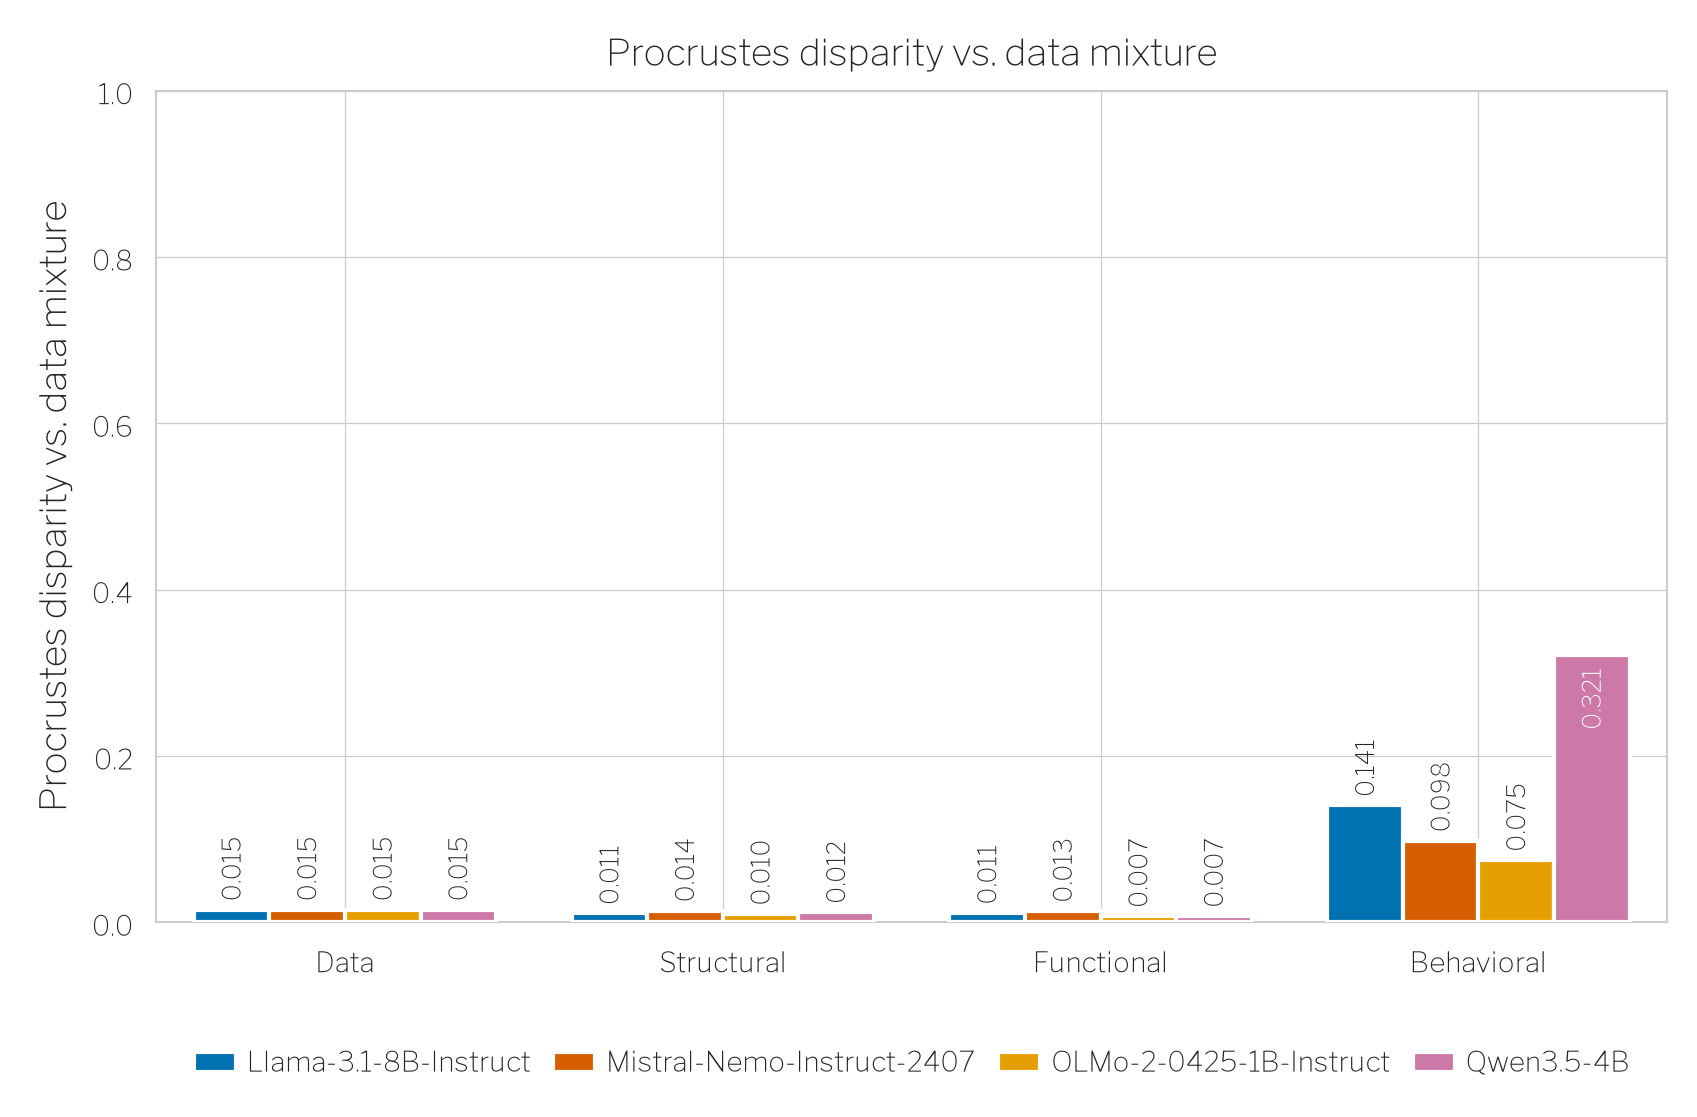
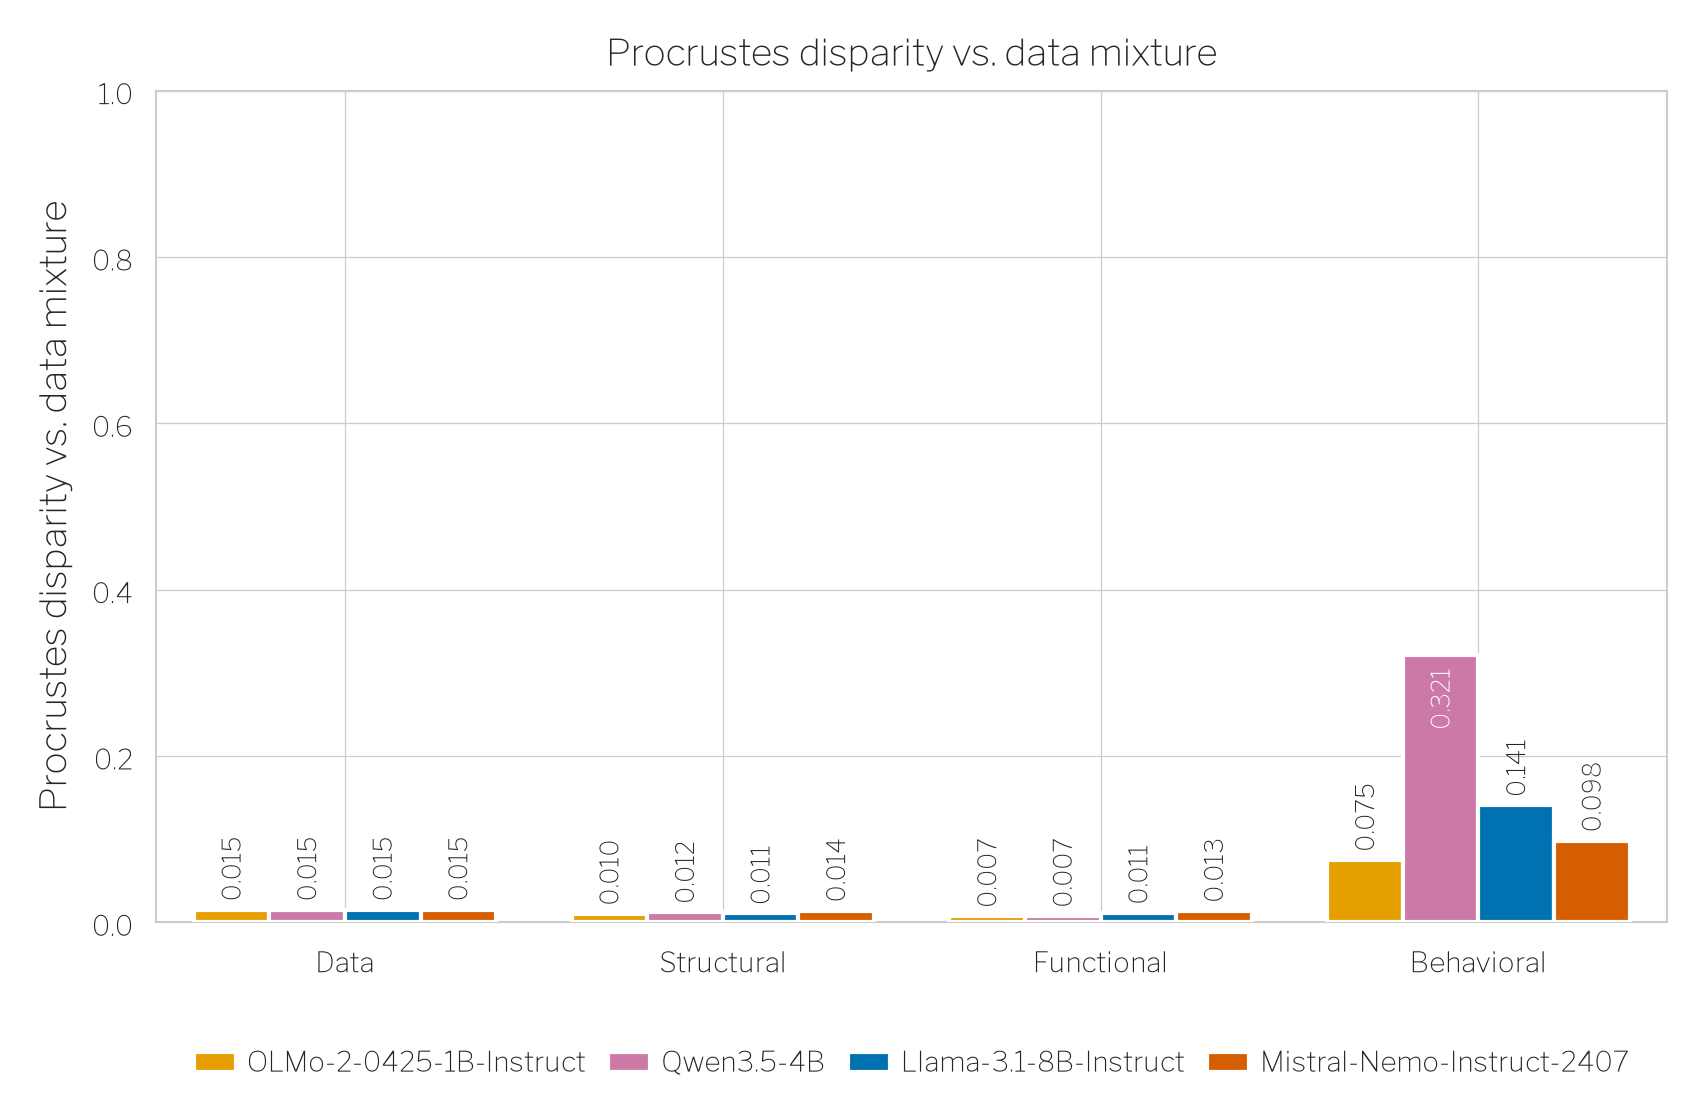
style(figures): order the simplex3 aggregate models by parameter count
Bars within a group, and the legend on every figure, now run 1B -> 4B -> 8B ->
12B (OLMo-2, Qwen3.5, Llama-3.1, Mistral-Nemo). Size is the one non-arbitrary
axis these four share, so a trend across a group can be read left to right.

Marker and dash move into the MODELS entries alongside the colour, so an
encoding travels with its model and reordering the list does not reassign them;
ENCODINGS is gone. No score changes -- the same cells, drawn in a new order.

Claude-Session: https://claude.ai/code/session_01S6CzwYUHpXsKaw2JNcaddi

diff --git a/figures/simplex3_aggregate/make_figures.py b/figures/simplex3_aggregate/make_figures.py
@@ -66,30 +66,33 @@ import matplotlib.pyplot as plt  # noqa: E402
 from src.plots import make_series, plot_grouped_bars, plot_radar, set_style  # noqa: E402
 from src.plots.simplex_suite import read_scores_csv, select_score  # noqa: E402
 
-#: Source run per base model, in legend order: (base model, figure dir, colour).
+#: Source run per base model: (base model, figure dir, colour, marker, dash).
 #: The base model is the ``BASE_MODEL`` of that directory's own make_figures.py,
 #: written out in full so the legend name is never guessed -- OLMo here is the
 #: **1B** instruct model, not the 7B. The directory is the suite whose
 #: crosslevel_scores.csv is authoritative for that model -- qwen_v4 rather than
 #: qwen_v3 because v4 is the restricted run the llama figures are read against.
 #:
+#: The order is **ascending parameter count**, and it is the order of the bars
+#: within each group and of the legend on every figure. Size is the one axis
+#: these four models can be put on that is not arbitrary, so a trend across a
+#: group can be read left to right; the count is in the model name in each case.
+#:
 #: Colours are Okabe-Ito, which is designed to stay separable under the common
-#: colour-vision deficiencies.
+#: colour-vision deficiencies. Marker and dash travel with the model rather than
+#: with its position, so the series stay separable in greyscale and a reordering
+#: here does not silently reassign them.
 MODELS = [
-    ("meta-llama/Llama-3.1-8B-Instruct",   "simplex3_llama3i", "#0072B2"),  # blue
-    ("mistralai/Mistral-Nemo-Instruct-2407", "simplex3_nemo",  "#D55E00"),  # vermillion
-    ("allenai/OLMo-2-0425-1B-Instruct",    "simplex3_olmo2",   "#E69F00"),  # gold
-    ("Qwen/Qwen3.5-4B",                    "simplex3_qwen_v4", "#CC79A7"),  # purple
+    ("allenai/OLMo-2-0425-1B-Instruct",      "simplex3_olmo2",   "#E69F00", "^", "-."),   # 1B,  gold
+    ("Qwen/Qwen3.5-4B",                      "simplex3_qwen_v4", "#CC79A7", "D", ":"),    # 4B,  purple
+    ("meta-llama/Llama-3.1-8B-Instruct",     "simplex3_llama3i", "#0072B2", "o", "-"),    # 8B,  blue
+    ("mistralai/Mistral-Nemo-Instruct-2407", "simplex3_nemo",    "#D55E00", "s", "--"),   # 12B, vermillion
 ]
 
 
 def label_of(base_model: str) -> str:
     """Legend name for a base model: the HF repo id without its org prefix."""
     return base_model.split("/")[-1]
-
-#: Marker and dash per model, carried alongside colour so the series stay
-#: separable in greyscale and for readers who cannot rely on hue alone.
-ENCODINGS = [("o", "-"), ("s", "--"), ("^", "-."), ("D", ":")]
 
 #: (spoke label, level, surrogate substring, metric). The order is the order the
 #: spokes are drawn in, counter-clockwise from the top: Data at the top,
@@ -122,7 +125,7 @@ SCORES = {
 def collect(figures_root: Path) -> dict[str, dict[str, dict[str, float]]]:
     """``{model: {version: {perspective: score}}}`` for every model in MODELS."""
     out: dict[str, dict[str, dict[str, float]]] = {}
-    for base_model, subdir, _ in MODELS:
+    for base_model, subdir, *_ in MODELS:
         rows = read_scores_csv(figures_root / subdir / "crosslevel_scores.csv")
         out[label_of(base_model)] = {
             version: {
@@ -143,7 +146,7 @@ def _series(scores, version, labels):
             [scores[label_of(base_model)][version][lbl] for lbl in labels],
             label=label_of(base_model), color=color, marker=marker, linestyle=ls,
         )
-        for (base_model, _, color), (marker, ls) in zip(MODELS, ENCODINGS)
+        for base_model, _, color, marker, ls in MODELS
     ]
 
 
